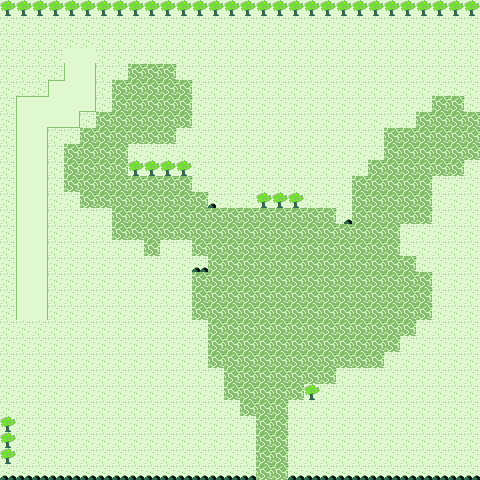
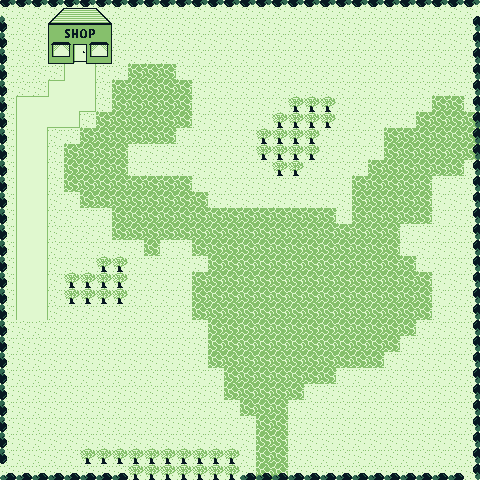
Implement overworld elements like the shop, trees etc

diff --git a/tiled/overworld.tsx b/tiled/overworld.tsx
@@ -1,40 +1,49 @@
 <?xml version="1.0" encoding="UTF-8"?>
-<tileset version="1.10" tiledversion="1.11.1" name="Overworld" tilewidth="16" tileheight="16" tilecount="12" columns="0">
+<tileset version="1.10" tiledversion="1.11.1" name="Overworld" tilewidth="64" tileheight="64" tilecount="15" columns="0">
  <grid orientation="orthogonal" width="1" height="1"/>
  <tile id="2">
-  <image source="../assets/sprites/water_wave.png" width="16" height="16"/>
+  <image source="sprites/water_wave.png" width="16" height="16"/>
  </tile>
  <tile id="3">
-  <image source="../assets/sprites/ground.png" width="16" height="16"/>
+  <image source="sprites/ground.png" width="16" height="16"/>
  </tile>
  <tile id="20">
-  <image source="../assets/sprites/path1.png" width="16" height="16"/>
+  <image source="sprites/path1.png" width="16" height="16"/>
  </tile>
  <tile id="21">
-  <image source="../assets/sprites/path2.png" width="16" height="16"/>
+  <image source="sprites/path2.png" width="16" height="16"/>
  </tile>
  <tile id="22">
-  <image source="../assets/sprites/path3.png" width="16" height="16"/>
+  <image source="sprites/path3.png" width="16" height="16"/>
  </tile>
  <tile id="23">
-  <image source="../assets/sprites/path4.png" width="16" height="16"/>
+  <image source="sprites/path4.png" width="16" height="16"/>
  </tile>
  <tile id="24">
-  <image source="../assets/sprites/path5.png" width="16" height="16"/>
+  <image source="sprites/path5.png" width="16" height="16"/>
  </tile>
  <tile id="25">
-  <image source="../assets/sprites/path6.png" width="16" height="16"/>
+  <image source="sprites/path6.png" width="16" height="16"/>
  </tile>
  <tile id="26">
-  <image source="../assets/sprites/path7.png" width="16" height="16"/>
+  <image source="sprites/path7.png" width="16" height="16"/>
  </tile>
  <tile id="27">
-  <image source="../assets/sprites/path8.png" width="16" height="16"/>
+  <image source="sprites/path8.png" width="16" height="16"/>
  </tile>
  <tile id="28">
-  <image source="../assets/sprites/path9.png" width="16" height="16"/>
+  <image source="sprites/path9.png" width="16" height="16"/>
  </tile>
  <tile id="29">
-  <image source="../assets/sprites/path10.png" width="16" height="16"/>
+  <image source="sprites/path10.png" width="16" height="16"/>
+ </tile>
+ <tile id="30">
+  <image source="sprites/house.png" width="64" height="64"/>
+ </tile>
+ <tile id="32">
+  <image source="sprites/tree_1.png" width="16" height="16"/>
+ </tile>
+ <tile id="33">
+  <image source="sprites/rock_1.png" width="16" height="16"/>
  </tile>
 </tileset>
